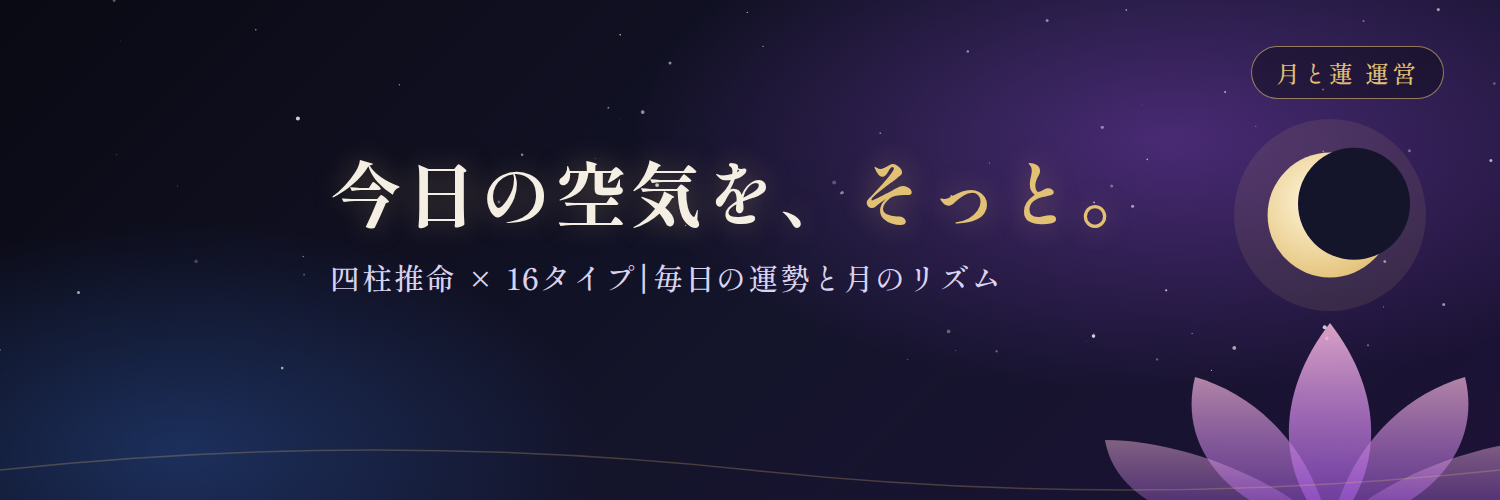
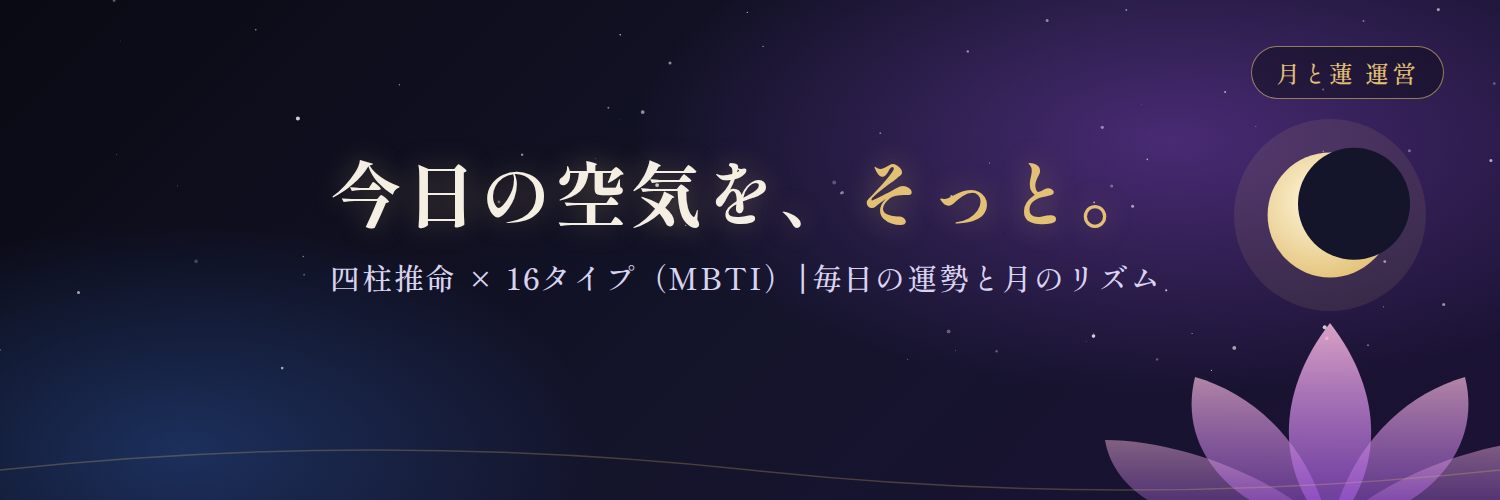
docs(x): use 16タイプ（MBTI）notation in profile, header and draft prompt
Claude-Session: https://claude.ai/code/session_015Rm6JNoM1KWYuujVjuZpEG

Changed region(s): [[0.4293, 0.51, 0.7667, 0.6], [0.3373, 0.54, 0.368, 0.57]]

diff --git a/docs/x-profile/header.html b/docs/x-profile/header.html
@@ -41,7 +41,7 @@ svg.bg{position:absolute;inset:0}
 <div class="badge">月と蓮 運営</div>
 <div class="t">
  <div class="t1">今日の空気を、<b>そっと。</b></div>
- <div class="t2">四柱推命 × 16タイプ｜毎日の運勢と月のリズム</div>
+ <div class="t2">四柱推命 × 16タイプ（MBTI）｜毎日の運勢と月のリズム</div>
 </div>
 </div>
 <script>

diff --git a/docs/x-profile/profile.md b/docs/x-profile/profile.md
@@ -4,7 +4,7 @@
 
 | 項目 | 内容 |
 |---|---|
-| 表示名（50字まで） | 月と蓮｜今日の空気×16タイプ占い |
+| 表示名（50字まで） | 月と蓮｜今日の空気×16タイプ（MBTI）占い |
 | ユーザー名（@、15字まで） | 候補: `tsuki_to_ren` / `tsukitoren_` / `tsuki_to_ren_jp`（空いているものを使う。取得できるかは作成画面で確認） |
 | 自己紹介（160字まで） | 下の A案 |
 | 場所 | 満ちたり欠けたり |
@@ -13,16 +13,18 @@
 | ヘッダー | `header.png`（1500×500） |
 
 ## 自己紹介 案（運営元と自動投稿を明記）
-- **A（おすすめ）**: 月と蓮の運営アカウント🌙 四柱推命×16タイプで、毎日の「今日の空気」と月のリズムをお届け。無料の相性鑑定はリンクから。※自動投稿／占いは傾向のヒントです
-- **B**: 【月と蓮 運営】毎朝・昼・夜に、今日の空気と16タイプ別のひとことを🌙 四柱推命×16タイプの無料相性鑑定 ▶ リンクへ（自動投稿）
-- **C**: 月と蓮 公式🌙 四柱推命×16タイプの占いを、やさしい言葉で。毎日「今日の空気」と月の満ち欠けをそっと。無料鑑定はリンクから／自動投稿です
+- **A（おすすめ）**: 月と蓮の運営アカウント🌙 四柱推命×16タイプ（MBTI）で、毎日の「今日の空気」と月のリズムをお届け。無料の相性鑑定はリンクから。※自動投稿／占いは傾向のヒントです
+- **B**: 【月と蓮 運営】毎朝・昼・夜に、今日の空気と16タイプ別のひとことを🌙 四柱推命×16タイプ（MBTI）の無料相性鑑定 ▶ リンクへ（自動投稿）
+- **C**: 月と蓮 公式🌙 四柱推命×16タイプ（MBTI）の占いを、やさしい言葉で。毎日「今日の空気」と月の満ち欠けをそっと。無料鑑定はリンクから／自動投稿です
+
+「MBTI」は商標なので、「MBTI診断」「公式MBTI」とは書かず、「16タイプ（MBTI）」の形で使う（独自の診断であり公式のMBTIではないため）。
 
 いずれも「運営元」「自動投稿」を明記している。第三者を装わない（ステマ防止）ため、この2点は消さないこと。
 
 ## 固定ポスト（最初に1回、手動で投稿して固定）
 ```
 はじめまして、月と蓮の運営アカウントです🌙
-毎日、朝・昼・夜の3回、今日の空気と16タイプのひとことをお届けします（自動投稿です）。
+毎日、朝・昼・夜の3回、今日の空気と16タイプ（MBTI）のひとことをお届けします（自動投稿です）。
 生年月日と16タイプで見る無料の相性鑑定はこちら
 https://www.tsuki-to-ren.com
 —月と蓮 運営
